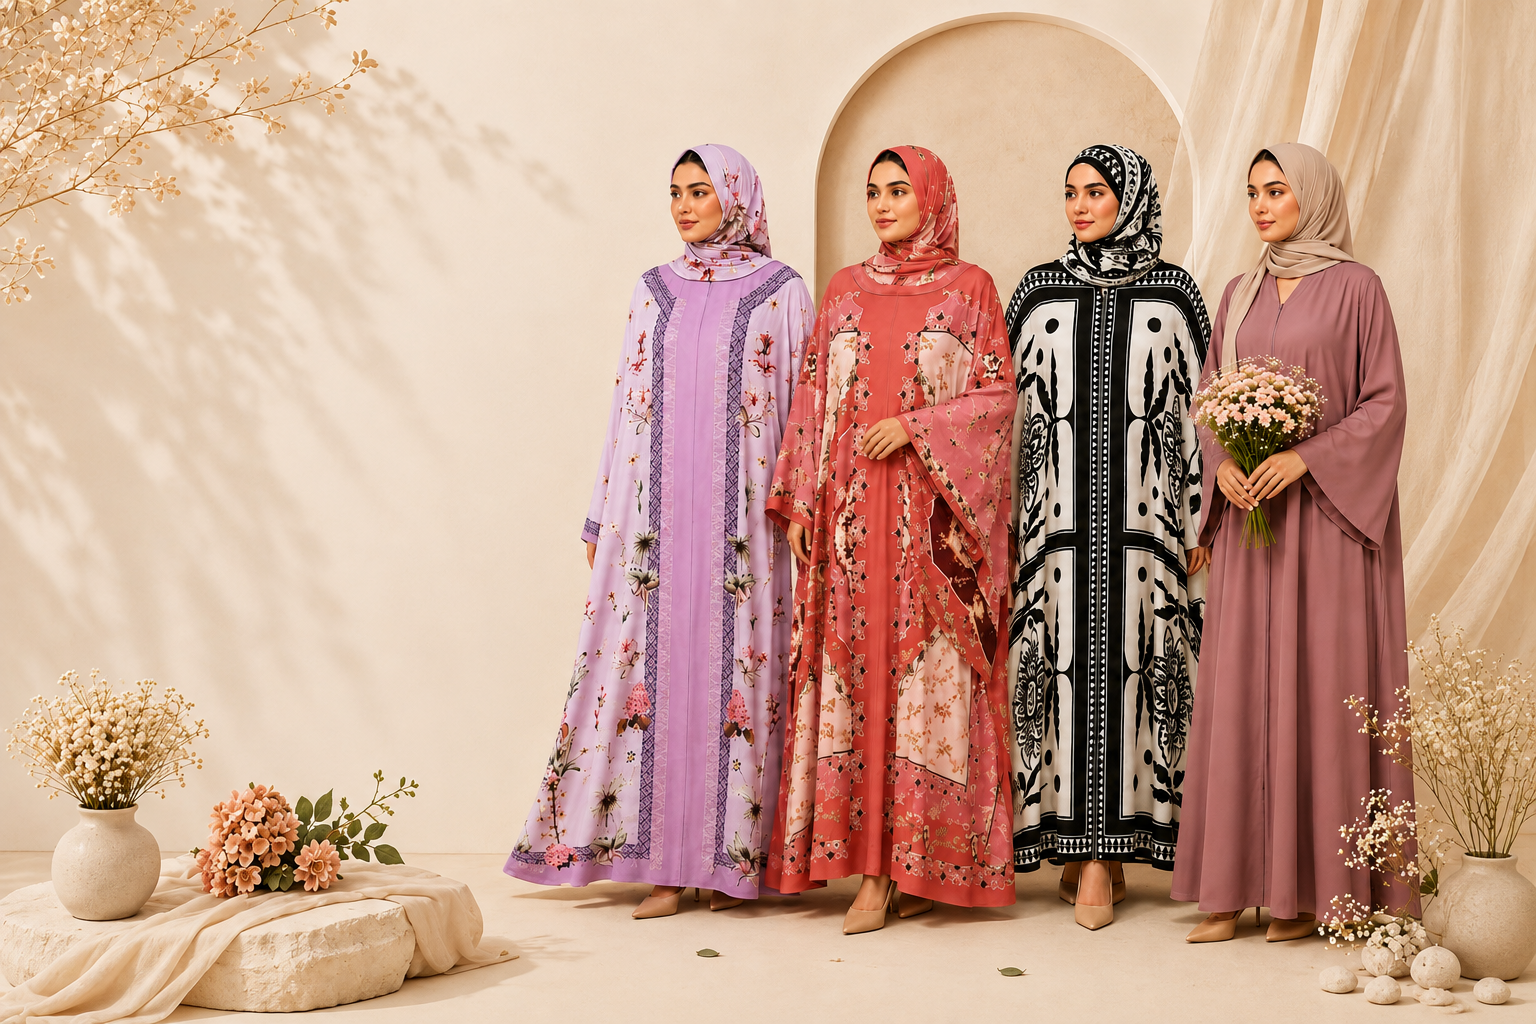
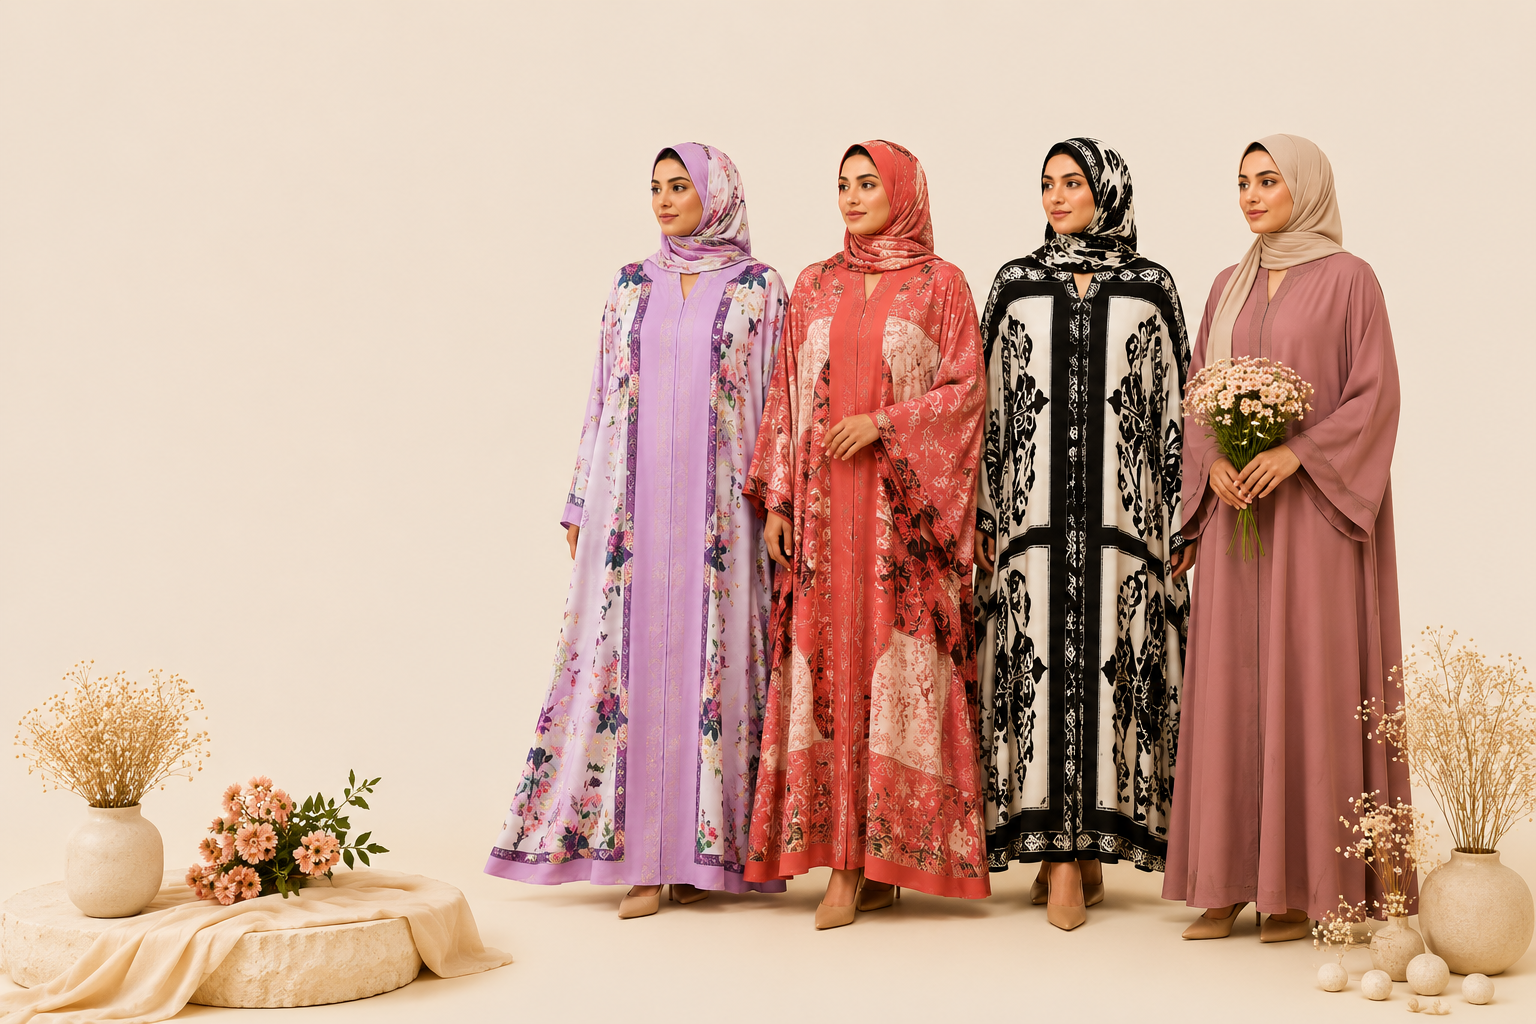
glopal

diff --git a/app/components/Home/FollowUs.vue b/app/components/Home/FollowUs.vue
@@ -57,7 +57,7 @@
 
             <!-- Top wide -->
             <NuxtImg
-              src="images/followUsSection/image1.png"
+              src="images/followUsSection/f3.png"
               :alt="$t('seo.app.appName')"
               width="400"
               height="200"
@@ -68,7 +68,7 @@
 
             <!-- Small 1 -->
             <NuxtImg
-              src="images/followUsSection/image2.png"
+              src="images/followUsSection/f2.png"
               :alt="$t('seo.app.appName')"
               width="200"
               height="200"
@@ -79,7 +79,7 @@
 
             <!-- Small 2 -->
             <NuxtImg
-              src="images/followUsSection/image2.png"
+              src="images/followUsSection/f1.png"
               :alt="$t('seo.app.appName')"
               width="200"
               height="200"

diff --git a/app/components/Home/CTA.vue b/app/components/Home/CTA.vue
@@ -4,8 +4,8 @@
   <div class="w-full  relative  shadow rounded-2xl  overflow-hidden">
     <NuxtImg
       src="images/d2.png"
-      alt="hatoun and dayana"
-      format="webp"
+      :alt="$t('seo.app.appName')"
+      format="png"
       loading="lazy"
       class="w-full h-auto"
     />
